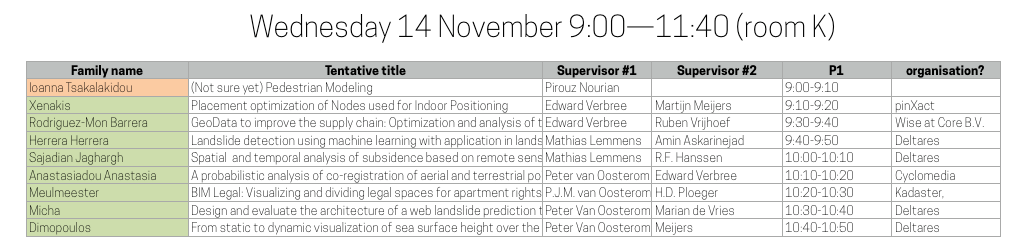
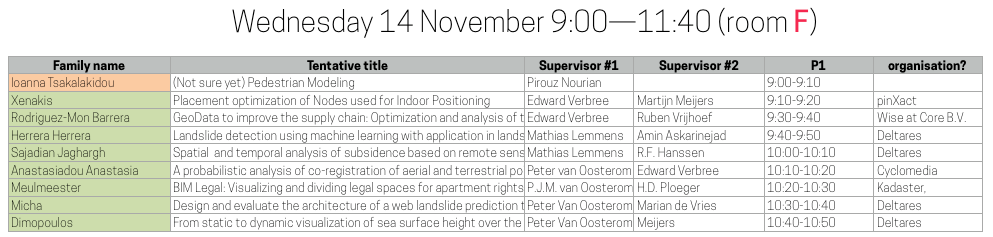
room F

diff --git a/_posts/2018-11-07-P1-schedule.md b/_posts/2018-11-07-P1-schedule.md
@@ -5,6 +5,8 @@ author: Hugo Ledoux
 date:   2018-11-07 17:07  
 ---
 
+*update 2018-11-08*: room for Nov14 has changed to "room F"
+
 I bundled people by supervisors and requests I got by email; I did my best.
 
 Students need to attend both days, unless they tell me beforehand why they cannot attend (another course is more or less the only reason acceptable).
